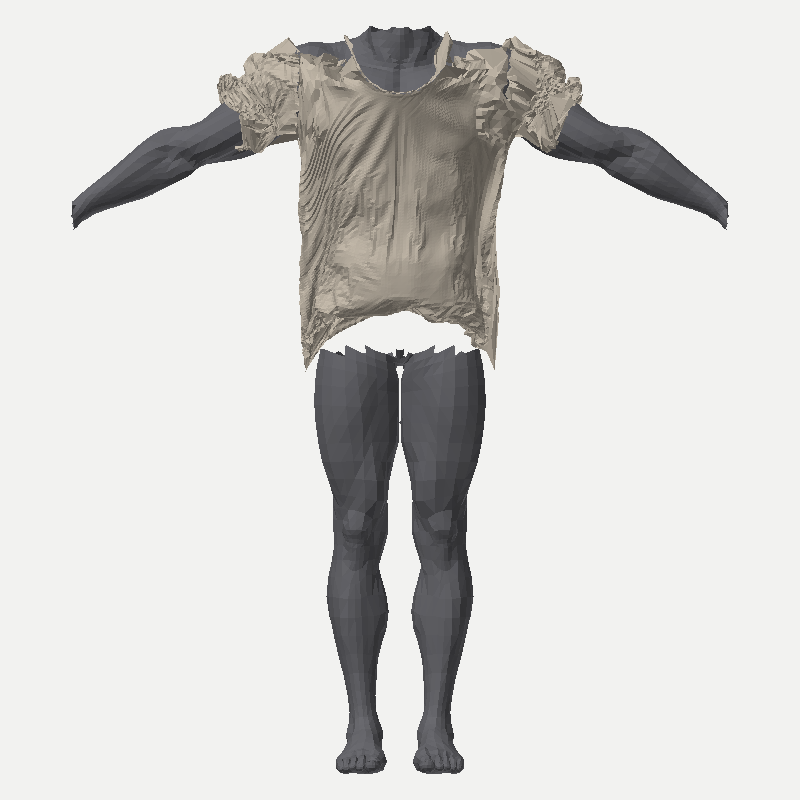
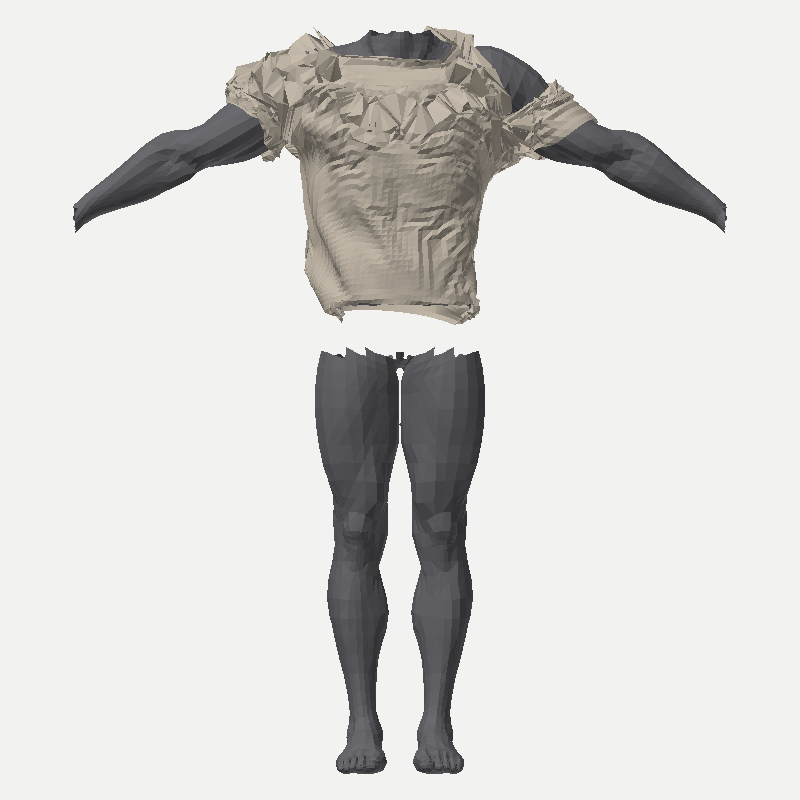
cloth sim (WIP, Opus): roll the torso panels over the shoulders, funnel sleeve caps toward the armholes, less shrink while sewing; REST_VER bump
Shoulders now start sewn and the shirt stays up; seams still open during the sewing phase — under review.

Claude-Session: https://claude.ai/code/session_01T1FoqNFrnpWafKQH3B1Vx3

diff --git a/tools/assets/cloth/sim.py b/tools/assets/cloth/sim.py
@@ -56,9 +56,11 @@ QUALITY = int(os.environ.get('SIM_QUALITY', '5'))       # CPU-bound default; SIM
 FABRIC = dict(area_mass=0.15, tension=15.0, compression=15.0, shear=5.0, bending=0.5,
               self_dist=0.003, coll_thick=0.005, friction=5.0,
               sew_force=float(os.environ.get('SIM_SEW_FORCE', '25')))   # reviewer: 10–30
-SHRINK_SEW = float(os.environ.get('SIM_SHRINK', '0.08'))  # reviewer: 0.05–0.1
+SHRINK_SEW = float(os.environ.get('SIM_SHRINK', '0.02'))  # reviewer: 0.05–0.1
+SLEEVE_SLIDE = float(os.environ.get('SIM_SLIDE', '0.85'))   # share of the cap→armhole distance closed by placement
+FUNNEL_CM = 14.0                                          # the funnel fades out this far down the sleeve (pattern cm)
 WELD_GAP = 0.003                                          # weld seam pairs closer than 3 mm
-REST_VER = 3                                              # bump to invalidate the cached rest mesh
+REST_VER = 'roll3'   # bump when the placement changes
 COTTON = (0.78, 0.74, 0.68)
 
 
@@ -83,6 +85,40 @@ def pushclear(V3, skin, iters=12):
             break
 
 
+def rollover(f, poly, sgn, z_mid):
+    """the torso cylinder leaves the front / back shoulder edges hanging in front of / behind the shoulders, and the
+    sewing springs then pull them straight through the shoulder into the collider (the seams never close and the shirt
+    slides down). Roll the top of each panel over the shoulder instead: along every pattern column the cloth below the
+    top edge follows a quarter circle from the panel's own plane up to the shoulder mid-plane z_mid, arc length kept,
+    so the front and back shoulder edges meet on top of the shoulder before any physics runs."""
+    n = len(poly)
+    def top(u):                                       # the pattern y (down from the nape) of the top edge at column u
+        ys = []
+        for i in range(n):
+            (x1, y1), (x2, y2) = poly[i], poly[(i + 1) % n]
+            if (x1 <= u <= x2 or x2 <= u <= x1) and x1 != x2:
+                ys.append(y1 + (y2 - y1) * (u - x1) / (x2 - x1))
+        return min(ys) if ys else 0.0
+    cache = {}
+    def g(u, v):
+        x, y, z = f(u, v)
+        t = cache.get(u)
+        if t is None:
+            t = cache[u] = top(u)
+        r = abs(z - z_mid)
+        if r < 0.01:
+            return (x, y, z)
+        y_edge = f(u, t)[1]
+        d = (v - t) / 100                             # metres below the top edge along the panel
+        L = math.pi / 2 * r
+        yc = y_edge - r
+        if d < L:
+            ph = d / r
+            return (x, yc + r * math.cos(ph), z_mid + sgn * r * math.sin(ph))
+        return (x, yc - (d - L), z)
+    return g
+
+
 def build_parts(garment, pat, skin, bodyP, bodyT):
     """returns {name: {verts3, V2 (pattern cm), faces}}. Uses the SAME benders as step 1."""
     if garment == 'tee':
@@ -93,11 +129,51 @@ def build_parts(garment, pat, skin, bodyP, bodyT):
         A['sleeve_tip'] = {1: (prm['tipx'] / 100, ytip, A['arms']['L']['bicep_cz']),
                            -1: (-prm['tipx'] / 100, ytip, A['arms']['R']['bicep_cz'])}
         benders = {}
+        # shoulder mid-plane: the mean z of the skin on top of the shoulders
+        zs = [p[2] for p in bodyP if A['nape_y'] - 0.09 < p[1] < A['nape_y'] - 0.01 and 0.07 < abs(p[0]) < 0.17]
+        z_mid = sum(zs) / len(zs)
         for name in pat['parts']:
             f = bender(name, A)
             if f is None:                                   # the collar strip, along the neckline
                 f = band_bender(A, pat, bender('front', A), bender('back', A))
+            elif name in ('front', 'back'):
+                f = rollover(f, [tuple(p) for p in pat['parts'][name]['pts']], 1 if name == 'front' else -1, z_mid)
             benders[name] = f
+        # funnel each sleeve toward its armhole: the cap ring sat ~15 cm from the armhole loop, and the sewing springs then
+        # dragged the shoulders apart and crumpled the caps. Every sleeve vertex moves by the cap→armhole offset of its
+        # nearest cap point (pairs at the same arc fraction, exactly as the seam spec pairs them), fading out 14 cm down
+        # the sleeve in the pattern, so the cap starts a few cm from the armhole and the tube keeps its shape below.
+        def chain(specs):
+            out = []
+            for sp in specs:
+                pts = edge_pts(pat['parts'][sp[0]], sp[1])
+                if len(sp) > 2 and sp[2]: pts = pts[::-1]
+                out += [(sp[0], q) for q in pts]
+            return out
+        def resample(ch, n):
+            L = [0.0]
+            for a_, b_ in zip(ch, ch[1:]): L.append(L[-1] + math.dist(a_[1], b_[1]) if a_[0] == b_[0] else L[-1])
+            out = []
+            for k in range(n):
+                t = L[-1] * k / (n - 1); i_ = max(0, min(len(L) - 2, next((m for m in range(len(L) - 1) if L[m + 1] >= t), len(L) - 2)))
+                a_, b_ = ch[i_], ch[i_ + 1]; w = 0 if L[i_ + 1] == L[i_] else (t - L[i_]) / (L[i_ + 1] - L[i_])
+                pn = a_[0] if w < 0.5 else b_[0]
+                out.append((pn, (a_[1][0] + (b_[1][0] - a_[1][0]) * w, a_[1][1] + (b_[1][1] - a_[1][1]) * w)))
+            return out
+        for sm in pat['seams']:
+            if not sm['a'][0][1] == 'cap': continue
+            sl = sm['a'][0][0]
+            cap = resample(chain(sm['a']), 48); hole = resample(chain(sm['b']), 48)
+            caps2 = [q for _, q in cap]
+            D = [sub(benders[hn](*hq), benders[sl](*cq)) for (_, cq), (hn, hq) in zip(cap, hole)]
+            f0 = benders[sl]
+            def funnel(u, v, f0=f0, caps2=caps2, D=D):
+                k = min(range(len(caps2)), key=lambda m: (caps2[m][0] - u) ** 2 + (caps2[m][1] - v) ** 2)
+                dp = math.dist(caps2[k], (u, v)); w = max(0.0, 1 - dp / FUNNEL_CM) ** 2 * SLEEVE_SLIDE
+                p0 = f0(u, v)
+                return tuple(p0[i] + D[k][i] * w for i in range(3))
+            benders[sl] = funnel
+            print(f'    {sl}: окат подтянут к пройме (средний зазор был {sum(math.sqrt(dot(d, d)) for d in D) / len(D) * 100:.1f} см)')
     else:                                                    # pants: step-1 bender needs its measures
         import pants as PN
         sk = json.load(open(os.path.join(OUT, 'body_skin.json')))
